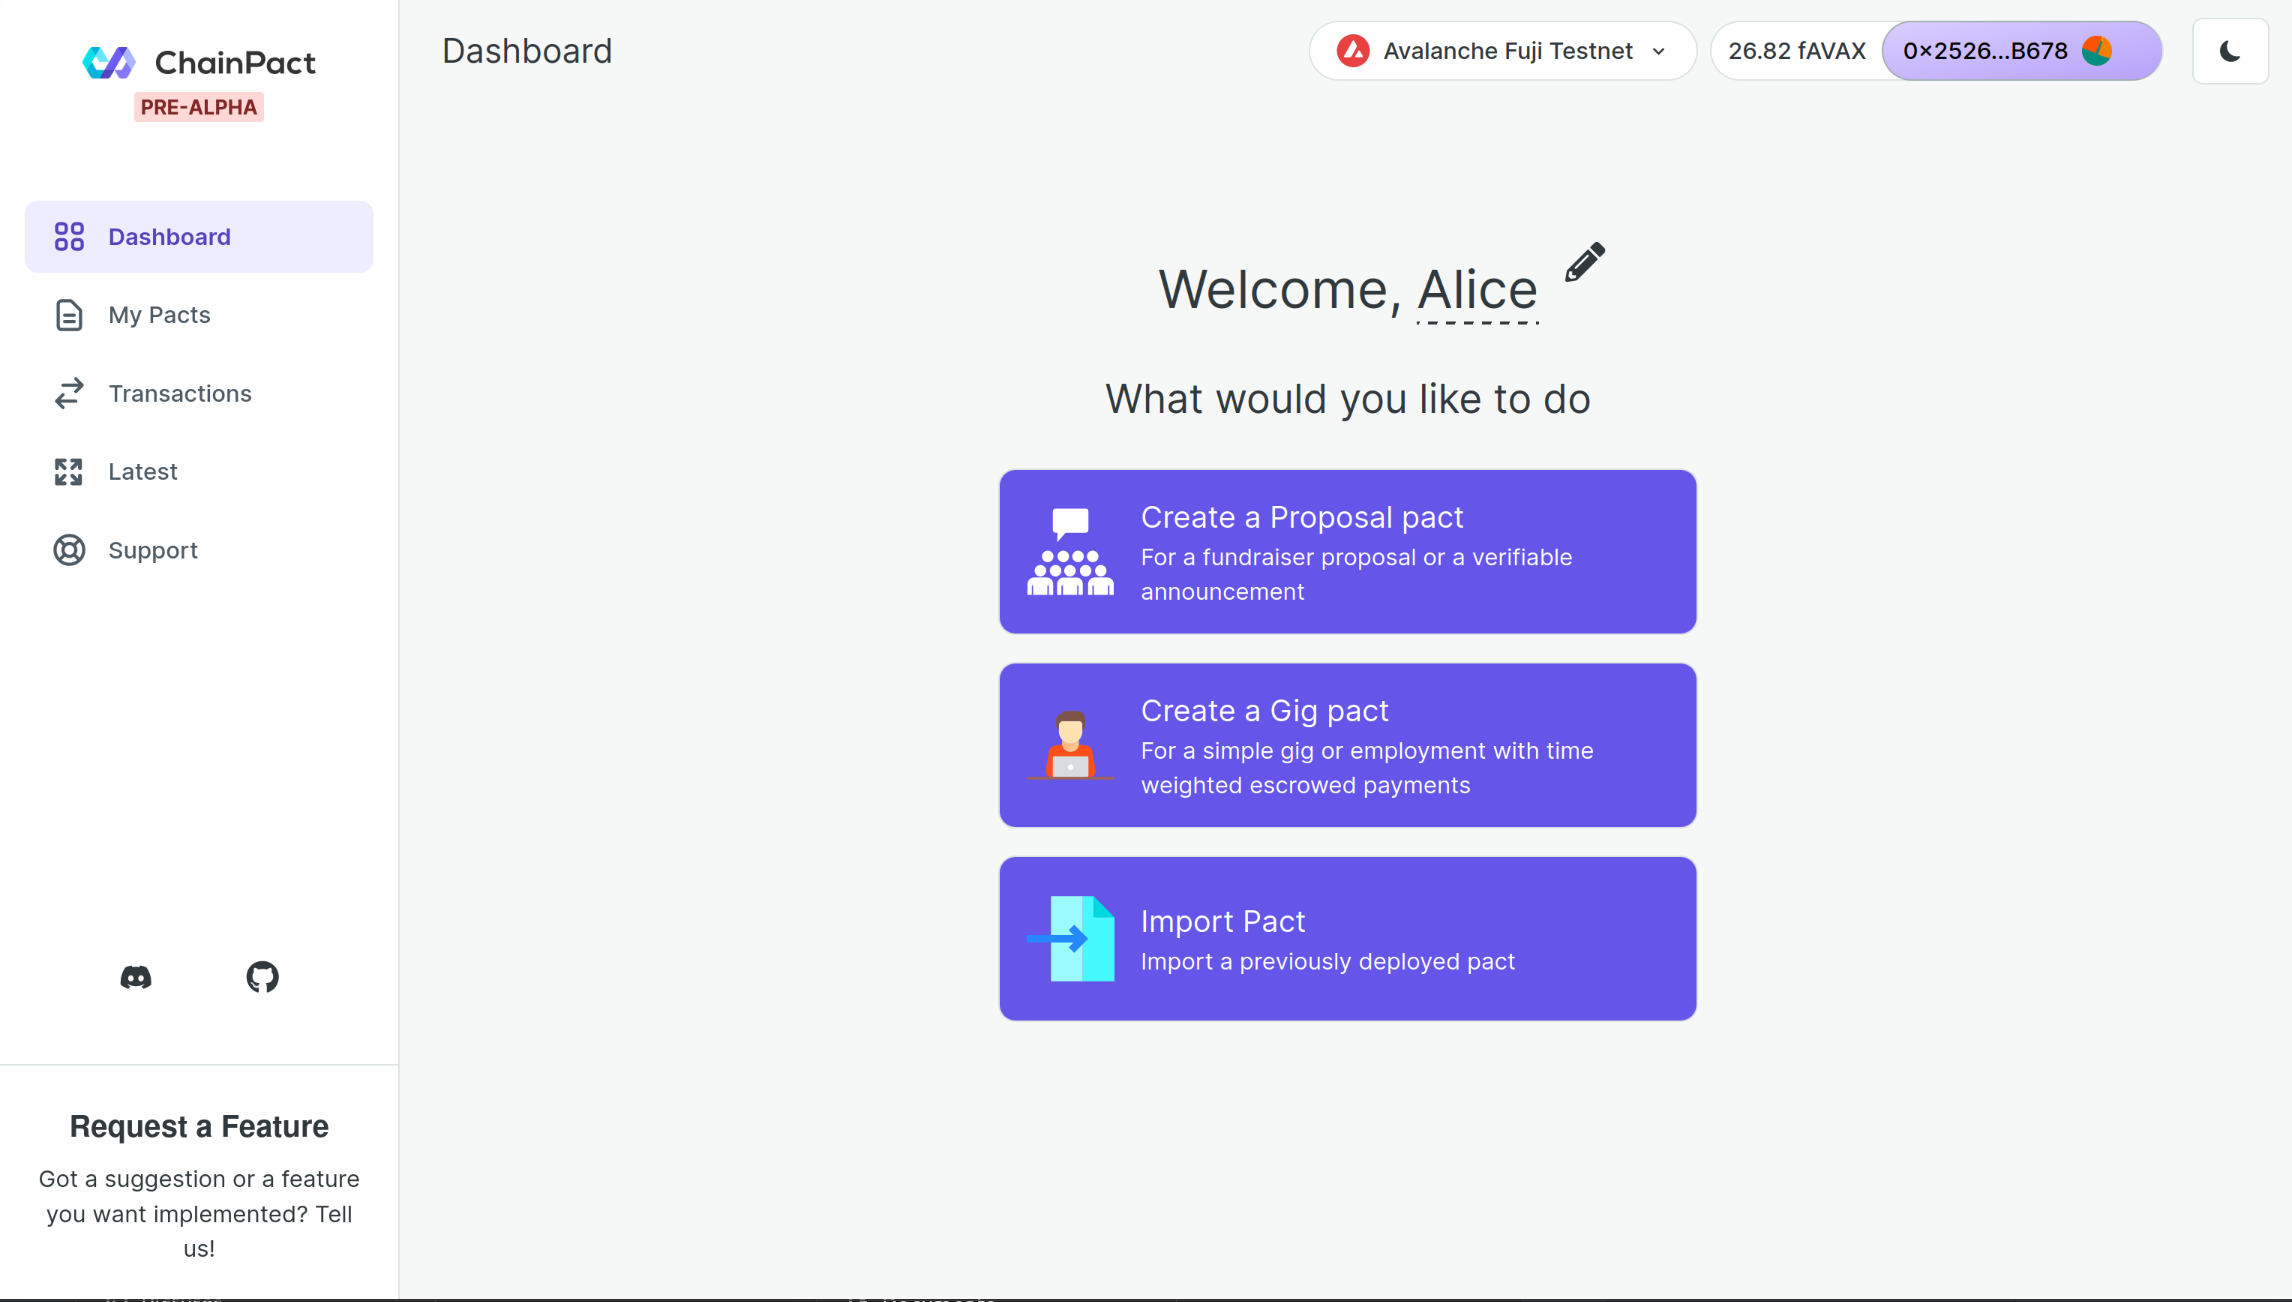
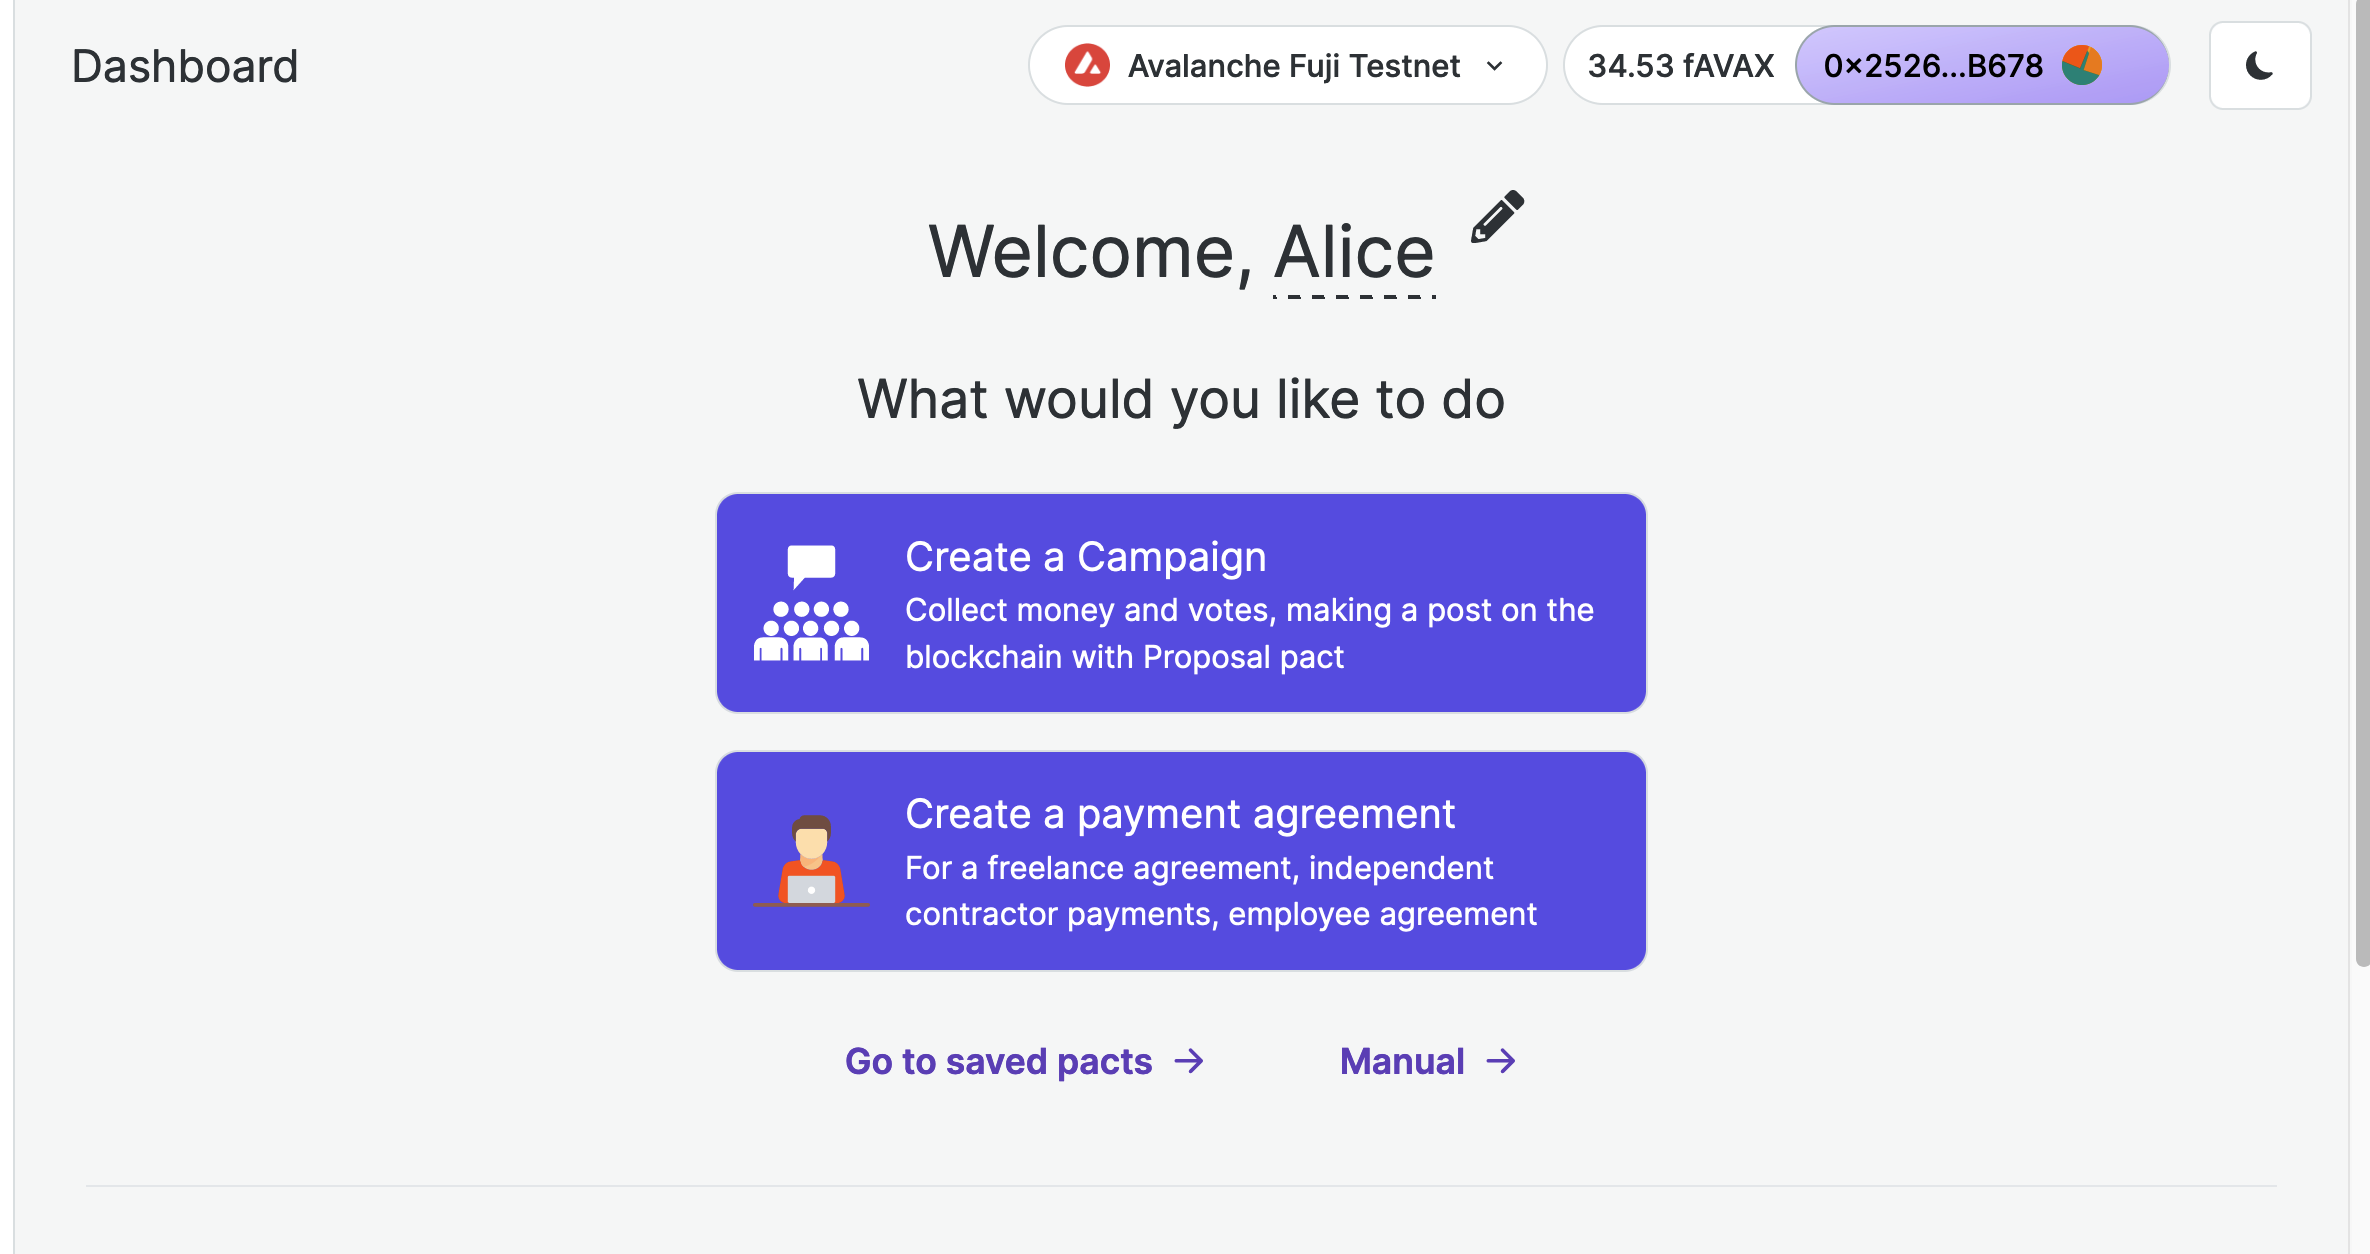
Fix wordings

diff --git a/docs/2_creating_gig_pact.md b/docs/2_creating_gig_pact.md
@@ -1,32 +1,37 @@
 # Creating a Gig Pact
 
-A gig pact is a representation of how usual employment agreements are made. So, in this article we will take the example of a web-design freelancer Bob working for a multinational company owned by Alice. We will create this employment agreement on blockchain as an automated workflow of the various steps of a typical contract.
 
-Note: The validity of gig pact in a court is jurisdiction dependent and we don't intend to replace any part of law here.
 
-Alice and Bob will create and manage the pact in the following steps:
+A gig pact is a representation of how usual employment agreements are made. This can be used for making a freelance contract, freelancer agreement, independent contractor agreement etc. on the blockcain.
 
- - Choose an account with enough native balance to pay for transactions
+Typically, a work contract of this form is drafted with the terms put in a piece of paper. With ChainPact, we will be assuming the real-world conditions are taken care of by the parties off-chain. So, the Gig pact really is just a periodic payment agreement that escrows in the supposed payment amount.
+
+Let's assume Bob is a web-designer and wants to work for Alice, the employer. The pact will represent an example workflow of the steps in this setup
+
+``Note: The validity of gig pact in a court is jurisdiction dependent and we don't intend to replace any part of law here.``
+
+Either parties, or anyone else, can "create" the pact with the parameters. Before starting, ensure you have enough balance on the wallet to pay for transaction.
+
  - Alice drafts and enter the details of the pact
- - Sign the pact: both Alice and Bob have to put their signatures
- - Alice starts the pact, when it becomes Active
- - Alice approves payment that reaches Bob
+ - Alice uses "Sign as Employer" option to put in her wallet's signature on the pact, while also staking the "Pay Amount"
+ - Bob signs the pact using "Sign as Employee" option
+ - Alice starts the pact, after which it becomes `ACTIVE`
+ - Alice approves payment that reaches Bob's wallet directly
  - Alice decides to terminate the pact
- - Bob acknolwdges the termination, and Alice reclaims staked amount
+ - Bob acknolwdges the termination, and Alice reclaims staked amount, after which the pact reaches its final state `ENDED`
 
-## Wallets and balances
+## Connect wallet to the dApp
 
-For the sake of this example we will be using Avalanche Fuji testnet. Other supported networks can be found in the [Supported Networks](/blockchains/) section. Visit [app.chainpact.xyz](https://app.chainpact.xyz) and click on "Connect Wallet". This will prompt you to approve connection from your Metamask wallet, or send you over to Metamask's install site. 
+For the sake of this example we will be using Avalanche Fuji testnet. Other supported networks can be found in the [Supported Networks](/blockchains/) section. 
+Visit [app.chainpact.xyz](https://app.chainpact.xyz) and click on "Connect Wallet". This will prompt you to approve connection from your Metamask wallet, or send you over to Metamask's install site. 
 <div style="display:flex; justify-content:center; width: full">
 <img src="/assets/connect-metamask.png" alt="connect metamask" style="width:300px;"/>
 <img src="/assets/approve_metamask_connect.png" alt="connect metamask approve" style="width:200px;"/>
 </div>
 
-
-
 <div style="display:flex; justify-content:center; align-items:center; width: full; padding: 2rem; gap:2rem">
 <img src="/assets/wallet-connect.png" alt="connect metamask approve" style="width:200px;"/>
-You can also use WalletConnect to sign in using a wallet app on your phone by scanning the QR code shown on clicking "WalletConnet".
+You can also use WalletConnect to sign in using a wallet app on your phone by scanning the QR code shown on clicking "WalletConnet". Though sometimes this causes issues if you don't have the desired network already present in the list of networks in Metamask app
 </div>
 
 If you don't have enough test balance for this example, you can go to Avalanche Fuji testnet faucet and get some free coins.
@@ -38,7 +43,7 @@ After having connected the wallet to the app, you will be greeted with the welco
 
 ## Creating the Pact
 
-Click on Create a Gig Pact on the dashboard and you are presented with a form to enter the parameters.
+Click on Create a Payment Agreement on the dashboard and you are presented with a form to enter the parameters.
 We enter the name "Web design by Bob", Bob's wallet address as employee wallet address, Alice's address as the employer's address.
 
 For the pay amount we can choose a currency. Since Alice wants to make the payments of 10 USD with the USDC stable coin, we choose USDC from the dropdown. This payment will be made weekly, so we choose Pay Schedule as 7 days.
@@ -48,7 +53,7 @@ For the pay amount we can choose a currency. Since Alice wants to make the payme
 </div>
 
 
-Further, Alice decides to add some textual information about the scope of this agreement. This is stored locally on Alice's browser and not synced with ChainPact, Blockchain or any other service.
+Further, Alice decides to add some textual information about the scope of this agreement. This is stored locally on Alice's browser and not synced with ChainPact, Blockchain or any other service. So this remains private. One way to share that would be to use the Email share option after the pact is deployed.
 
 Next, we are presented with a pre-flight check screen to verify the details before submitting it to the chain. We click on "Looks Good - Deploy" to submit and create the pact
 <div style="display:flex; justify-content:center; width: full">
@@ -57,6 +62,7 @@ Next, we are presented with a pre-flight check screen to verify the details befo
 
 
 ## Signing and locking funds
+Alice and Bob can sign it in any order - Bob first or Alice first. But since Alice is the one supposed show that she has enough funds to support the first payment, Bob may only agree to complete the gig work after Alice stakes in the first payment.
 
 The pact is now created and Alice needs to sign it from her end. While signing the pact, the agreed upon pay amount needs to be locked in to the pact. Alice ensures that she has more than 10 USDC in her wallet by clicking on the balance indicator on the top right.
 <div style="display:flex; justify-content:center; width: full"><img src="/assets/gigPact/balance_pop_up.png" alt="Drafting Gig pact" style="width:500px; marginX: auto"/>
@@ -81,4 +87,14 @@ Alice then shares the url for the pact, that now lives on blockchain, to Bob for
 
 ## Actions
 
-On the course of the agreement between
+On the course of the agreement between Alice and Bob, they need to take several actions to fulfill this payment  agreement.
+Following actions can be taken on the pact
+
+- Start Pact: Alice can start the pact whenever the gig is ready to begin. Once started the pro-rata payment measurement also begins. Meaning, if the pact was started today, in 3 and a half days, half the payment (i.e. 5 USDC) would be the assumed payment due
+- Approve Payment: Alice can use this option to transfer funds through the pact to Bob. The payments are made in the curency of the pact.
+- Pause: Either of the parties can use this option to stop the pro-rata payment calculation clock. The duration the pact was paused is subtracted while calculating the due payment in next courses of actions and milestones on the pact.
+- Resume: Either of the parties can use this option to restart the pact. The pro-rata payment clock begins counting again.
+- Resign: Bob can use this option as the employee to break off the pact. As soon as this option is excercised, part of the stake amount minus the pro-rata payment at this point, is refunded back to the employer. The pact state changes to `RESIGNED`
+- Terminate: Alice can use this option as the employer to end the pact. Again, the stake amount is refunded to Alice and the pact changes to a `TERMINATED` state
+- Full and Final settlement: After the pact is in `RESIGNED` or `TERMINATED` state, both parties must use the FnF option to indicate sending any remaining amount due to the other party. For instance, say Alice still owes Bob $5, she must send this money to Bob, specifying this amount in the FnF dialog box. The state will change to `FNF_EMPLOYER` or `FNF_EMPLOYEE`, then to `FNF_SETTLED` with this option
+- Reclaim stake - This is the final move by Alice to reclaim the remaining stake on the pact after it is in `FNF_SETTLED` state
